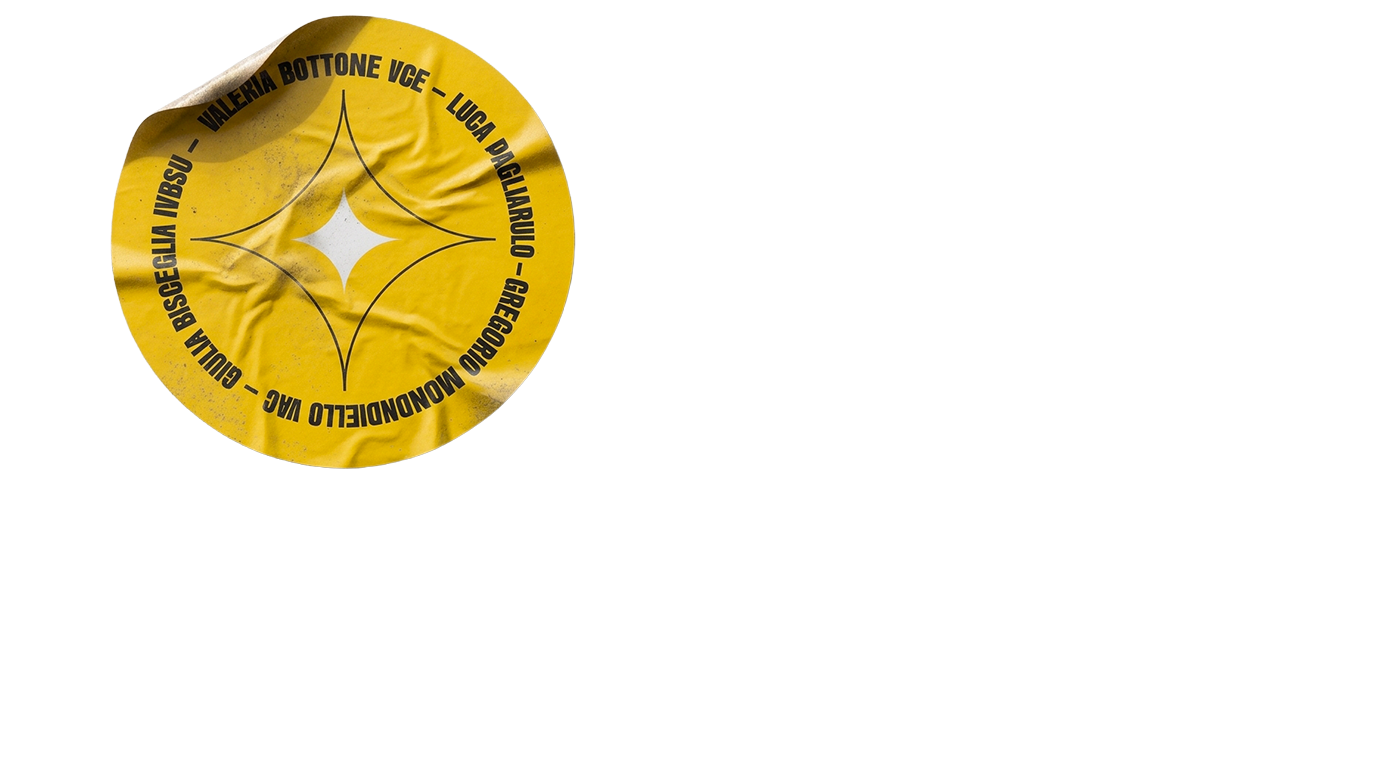
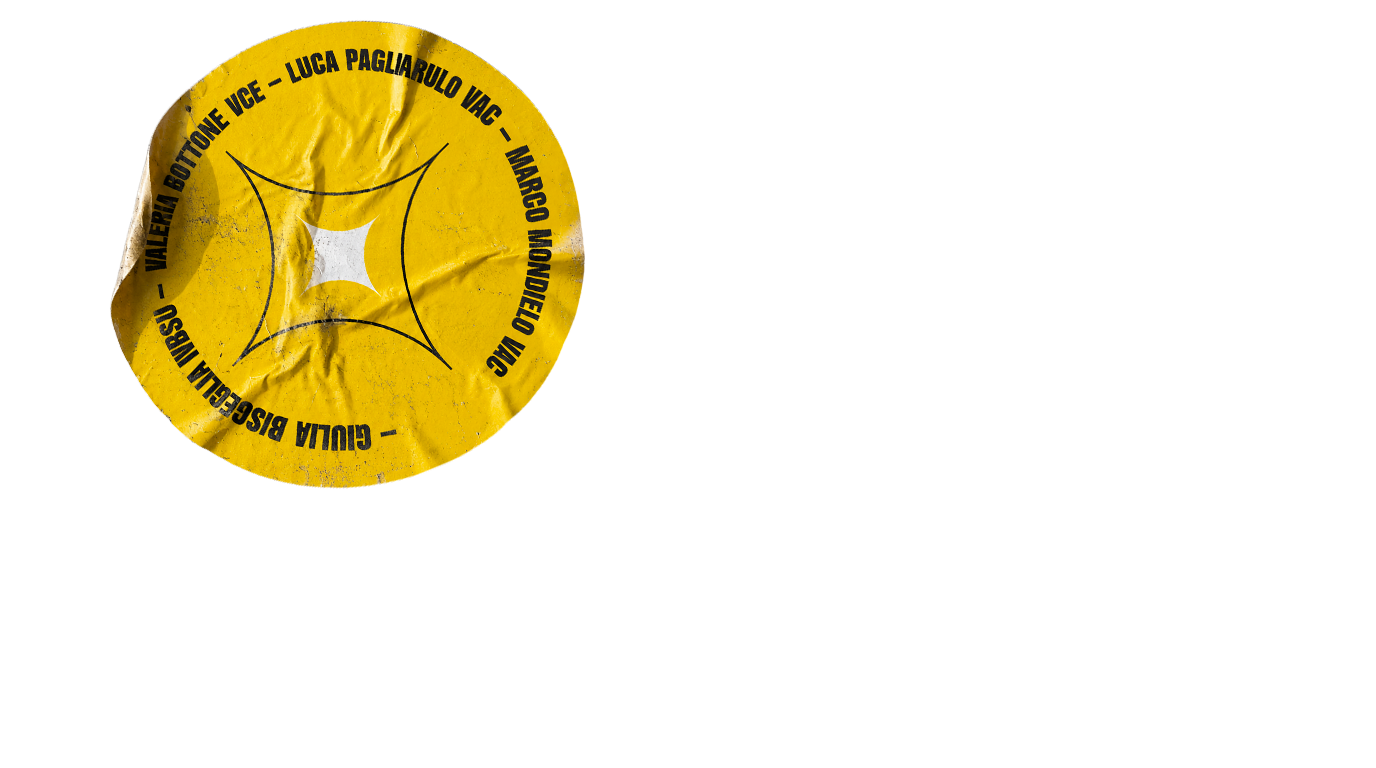
feat: nuova grafica sticker candidati, via "LISTA 01" dal countdown

Changed region(s): [[0.0625, 0.0, 0.4375, 0.6562]]

diff --git a/src/config/stickerWall.ts b/src/config/stickerWall.ts
@@ -9,12 +9,12 @@ export const STICKER_WALL = {
     {
       id: "candidati",
       src: "/media/stickers/sticker-candidati.webp",
-      width: 466,
-      height: 454,
+      width: 475,
+      height: 469,
       // Posizione sulla tela 1376×768, in percentuale.
       left: 7.994,
-      top: 1.953,
-      size: 33.866,
+      top: 2.604,
+      size: 34.52,
     },
     {
       id: "lumina",

diff --git a/src/components/sections/CountdownSection.tsx b/src/components/sections/CountdownSection.tsx
@@ -57,7 +57,6 @@ export function CountdownSection() {
         <span>
           {ended ? "IL CONTO ALLA ROVESCIA È TERMINATO" : formattedDate}
         </span>
-        <span>LISTA 01</span>
       </div>
     </section>
   );

diff --git a/CHANGELOG.md b/CHANGELOG.md
@@ -2,6 +2,7 @@
 
 ## Unreleased
 
+- Sticker dei candidati aggiornato con la nuova grafica (nomi e classi rivisti); tolta la scritta “LISTA 01” dal countdown.
 - Pulizia prima del rilascio. **Correzioni**: errori del modulo sempre in italiano tramite `SubmitError` (rete, timeout, risposta non valida), countdown con un’unica etichetta accessibile, timer fermo a data passata e intervallo creato una sola volta, UUID di invio con fallback fuori dai contesti sicuri, focus sul titolo della conferma dopo l’invio, hero che parte con i fotogrammi arrivati anche se qualcuno manca e usa il set 960 px su tablet (1920 px solo da 1200 px di larghezza), meta description senza “Anteprima dimostrativa”. **Stile**: rimossi Tailwind CSS e shadcn/ui; al loro posto CSS semplice con un reset in `@layer reset` e l’utility `.sr-only`. **Dipendenze rimosse**: `tailwindcss`, `@tailwindcss/vite`, `tw-animate-css`, `shadcn`, `radix-ui`, `class-variance-authority`, `clsx`, `cn`, `tailwind-merge`, `@types/three`, `ffmpeg-static`. **File eliminati**: primitive `components/ui`, `lib/utils.ts`, `components.json`, `skills-lock.json`, `PRODUCT.md`, `.impeccable/`, le skill esterne in `.agents/skills/` (resta `lumina-project`), `docs/SKILLS-APPLIED.md`, `public/images/SOURCES.md`, il mockup `Stickers_Mockup.jpeg` ed `Esempio.png`. **Riorganizzazione**: `components/brand/HeroAnimation.tsx` → `components/sections/HeroAnimation.tsx`, `components/motion/LightReveal.tsx` → `components/LightReveal.tsx`, `GadgetGallery.tsx` → `StickerSection.tsx`, `Lumina-testi-sito.docx` → `assets/source/content/`, fonti in `assets/source/SOURCES.md`, `docs/HEADER-ANIMATION.md` → `docs/HERO-ANIMATION.md`; aggiunto `src/lib/countdown.test.ts`. **Script rinominati**: `media:header` → `media:hero:render`, `render-header-animation.mjs` → `render-hero.mjs`, `export-blender-header.py` → `export-blender-hero.py`. Documentazione riallineata al sito attuale.
 - Rimossi la nota privacy sotto il modulo idee, la linea con il link “E la tua idea? Mettila in luce” in fondo al programma e l’indicatore “Scorri” nell’hero. Il logo dell’hero ora è centrato in verticale. La privacy resta raggiungibile dalla riga finale.
 - Rimossi definitivamente navbar, menu, footer, barra gialla di avanzamento e skip link, su telefono e su desktop. La pagina si chiude con una sola riga "© 2026 LUMINA · PRIVACY". L’hero non compensa più l’altezza dell’header e il logo usa tutto lo schermo. Eliminati anche `BrandAsset` e `src/config/assets.ts`, rimasti senza utilizzi.
